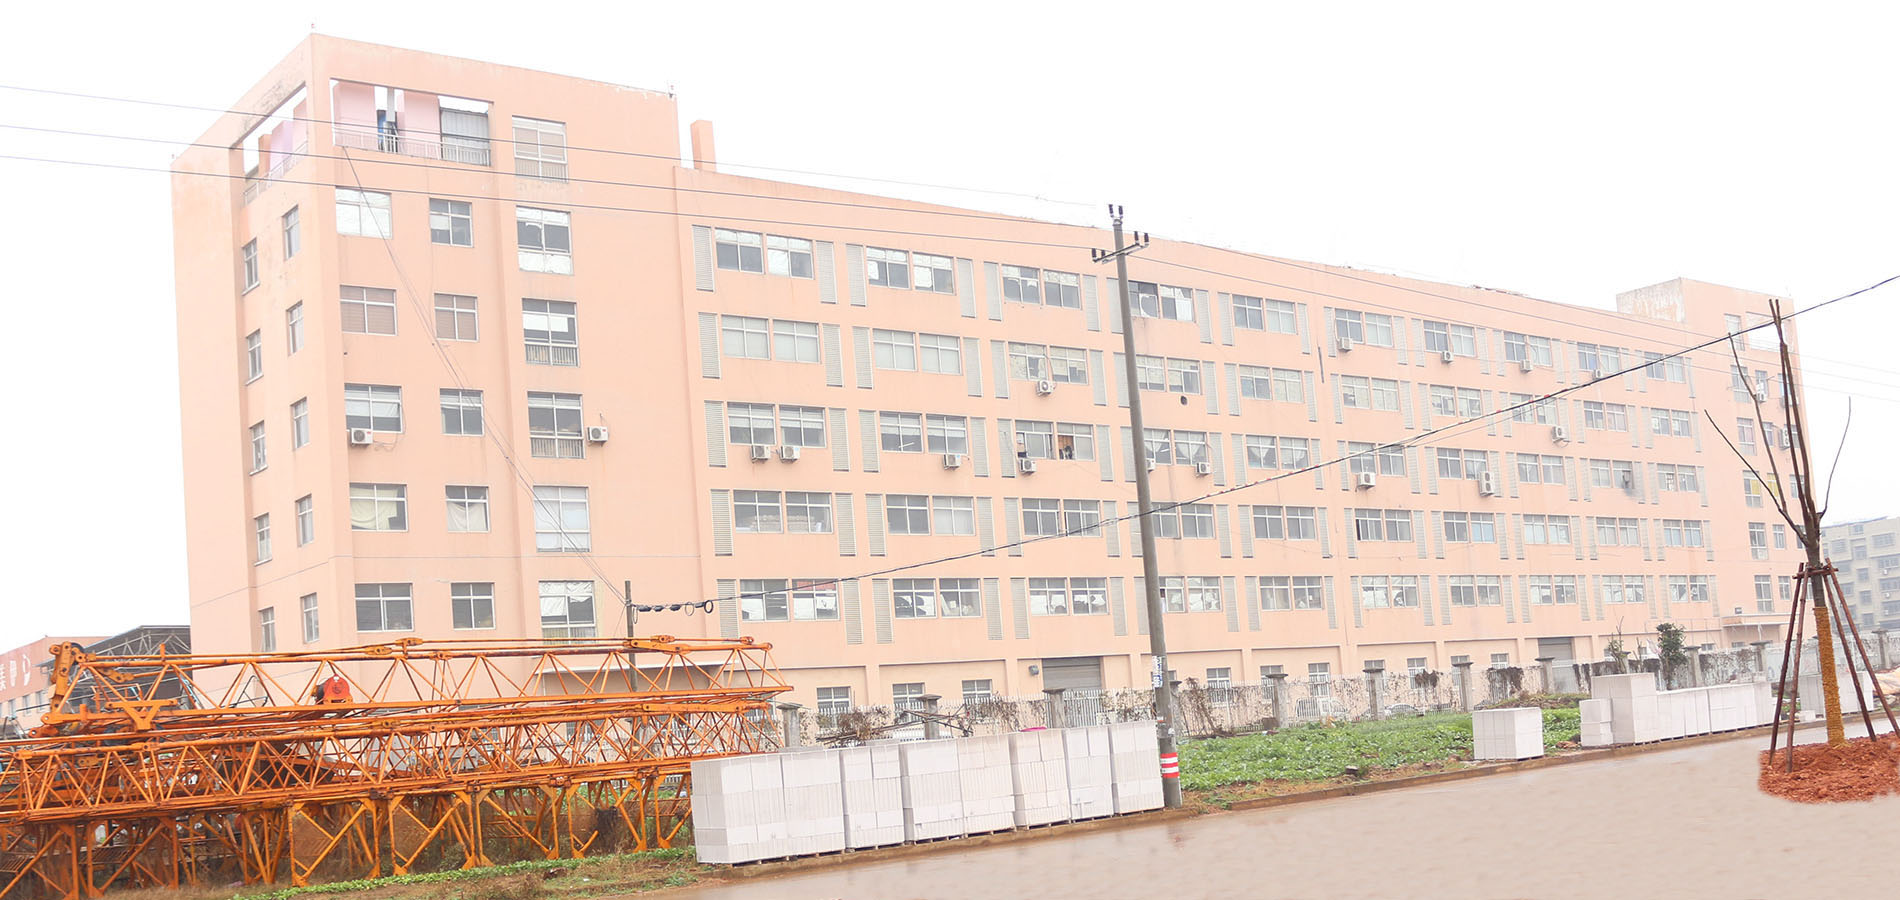
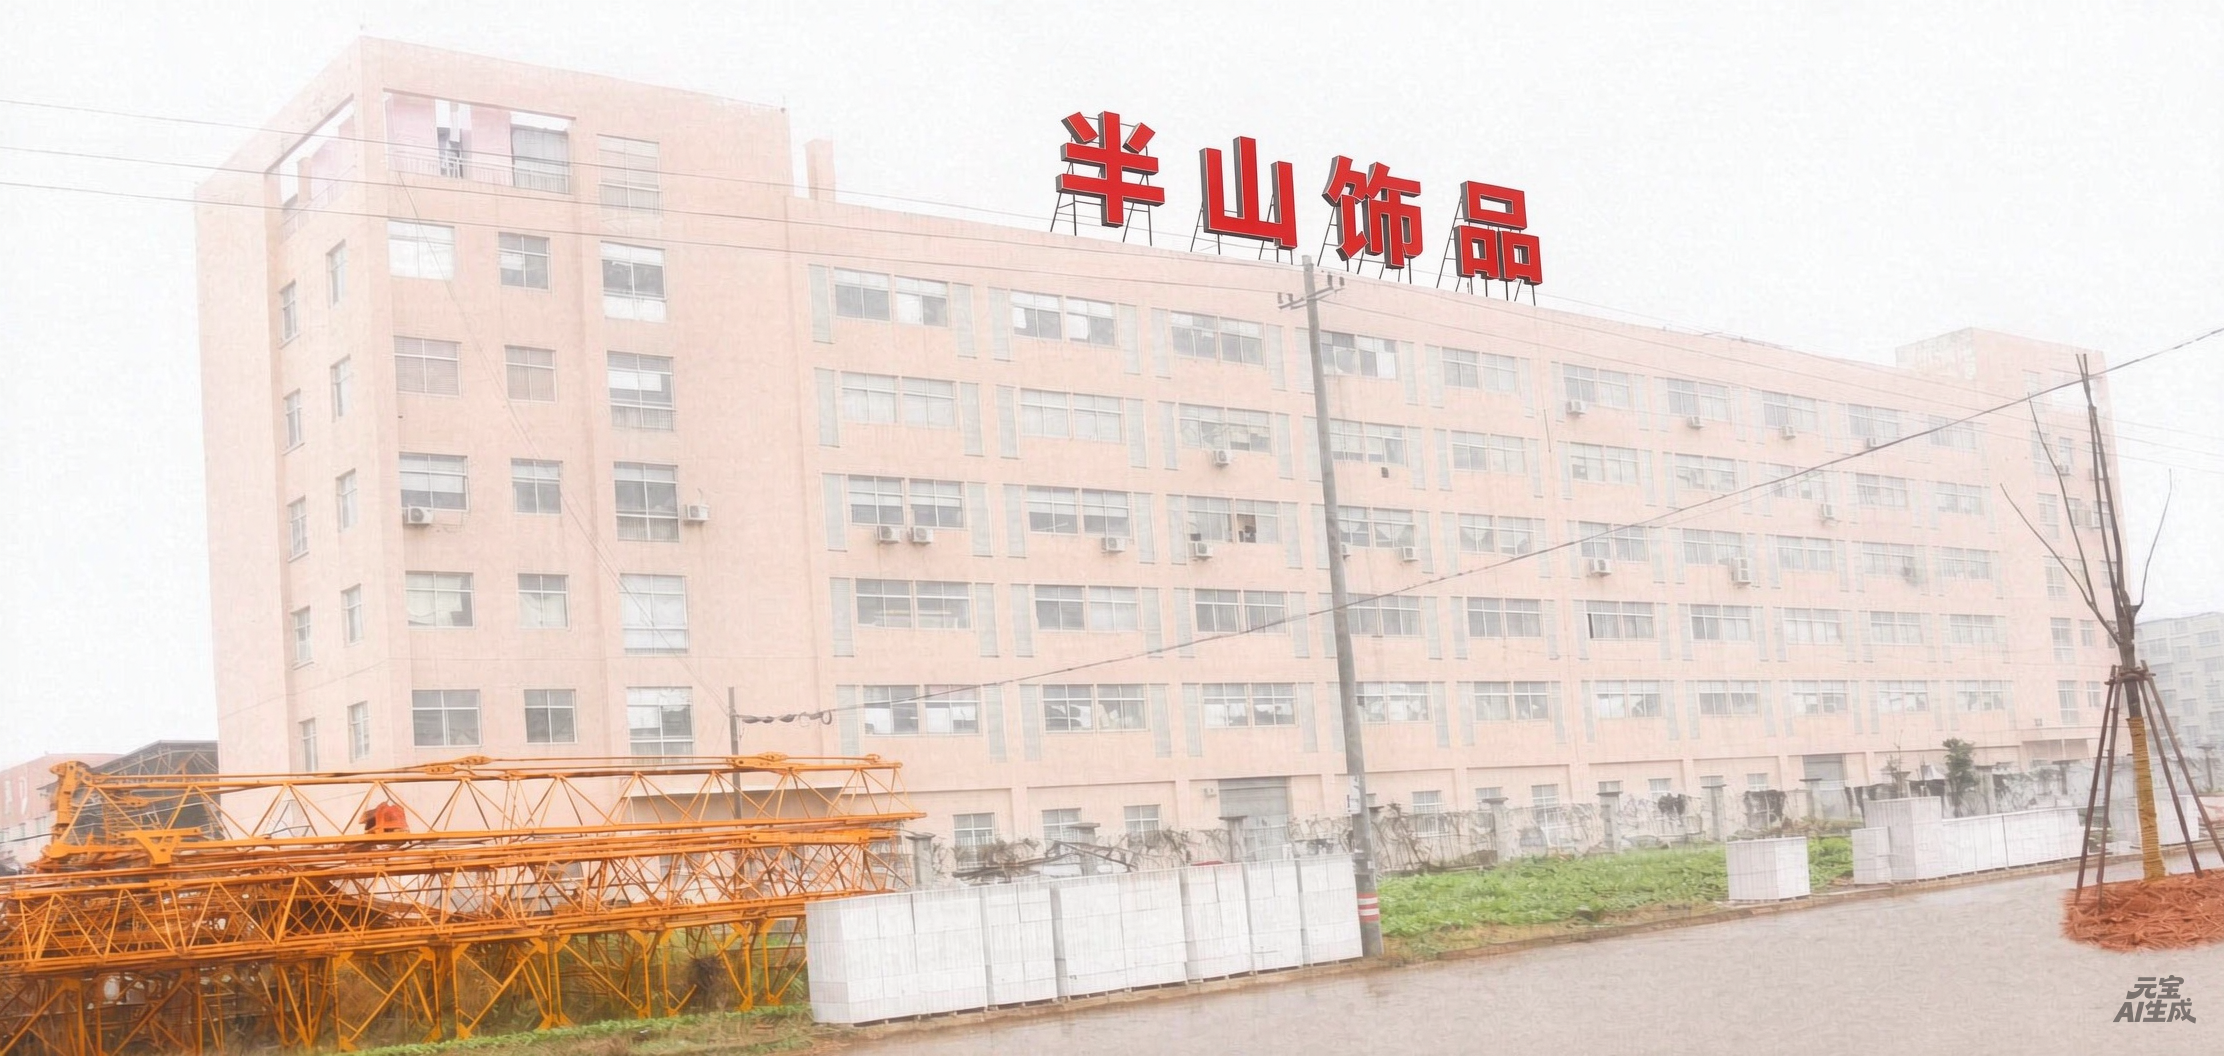
Replace company panorama and remove image label

diff --git a/index.html b/index.html
@@ -34,7 +34,7 @@
         <h1>Fashion Jewelry,<br><em>Developed for Fast-Moving Markets.</em></h1>
         <p class="lede">Banshan Fashion Jewelry is a Yiwu-based manufacturing and trading partner for importers, wholesalers and retail programs across North America and Europe.</p>
       </div>
-      <div class="hero-visual"><img src="assets/photos/company-panorama.jpg?v=4" alt="Exterior panoramic view of the Banshan company building" /><div class="hero-tag">01 / BANSHAN<br>COMPANY OVERVIEW</div></div>
+      <div class="hero-visual"><img src="assets/photos/company-panorama.jpg?v=4" alt="Exterior panoramic view of the Banshan company building" /></div>
     </section>
 
     <section class="intro section-grid">
